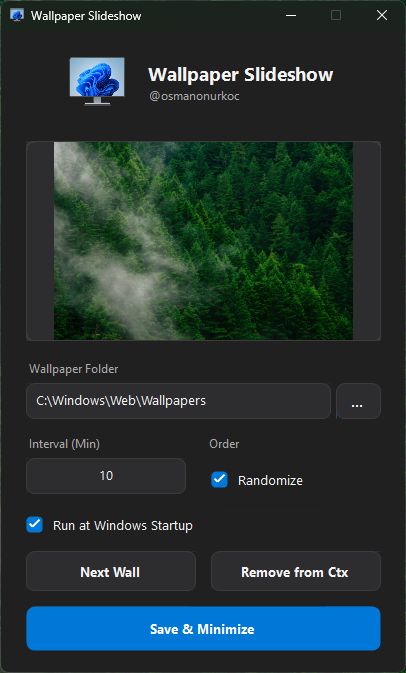
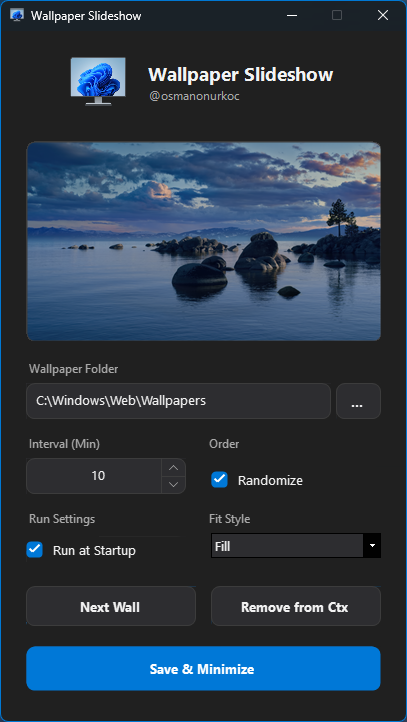
added fit options

diff --git a/Program.cs b/Program.cs
@@ -19,6 +19,7 @@ using System.Diagnostics;
 using System.Text.Json;
 using System.Reflection;
 using System.ComponentModel;
+using System.Linq;
 
 namespace WallpaperSlideshow;
 
@@ -32,6 +33,7 @@ public class Config
     public bool Randomize { get; set; } = true;
     public bool RunAtStartup { get; set; } = false;
     public int LastIndex { get; set; } = 0;
+    public string WallpaperStyle { get; set; } = "Fill";
 }
 
 /// <summary>
@@ -365,6 +367,23 @@ public class ModernCheckBox : CheckBox
     }
 }
 
+public class ModernComboBox : ComboBox
+{
+    public ModernComboBox()
+    {
+        FlatStyle = FlatStyle.Flat;
+        DropDownStyle = ComboBoxStyle.DropDownList;
+        Font = new Font("Segoe UI", 10);
+    }
+
+    public void UpdateTheme()
+    {
+        BackColor = Theme.SurfaceColor;
+        ForeColor = Theme.TextColor;
+        Invalidate();
+    }
+}
+
 // --- MAIN APPLICATION FORM ---
 
 public class MainForm : Form
@@ -383,11 +402,13 @@ public class MainForm : Form
     private ModernNumericUpDown? _txtInterval;
     private ModernCheckBox? _chkRandom;
     private ModernCheckBox? _chkStartup;
+    private ModernComboBox? _cmbStyle;
     private PictureBox? _previewBox;
     private Panel? _headerPanel;
     private ModernButton? _btnContext;
 
     private Image? _appImage;
+    private Image? _currentWallpaperImage;
     private bool _forceHidden = false;
 
     public MainForm(bool startHidden)
@@ -403,7 +424,7 @@ public class MainForm : Form
 
         // 2. Form Properties
         Text = "Wallpaper Slideshow";
-        Size = new Size(420, 680);
+        ClientSize = new Size(405, 690);
         FormBorderStyle = FormBorderStyle.FixedSingle;
         MaximizeBox = false;
         StartPosition = FormStartPosition.CenterScreen;
@@ -457,9 +478,12 @@ public class MainForm : Form
         {
             if (c is ModernTextBox mtb) mtb.UpdateTheme();
             else if (c is ModernNumericUpDown mnud) mnud.UpdateTheme();
+            else if (c is ModernComboBox mcb) mcb.UpdateTheme();
             else if (c is Label lbl) lbl.ForeColor = Theme.SubTextColor;
             else c.Invalidate();
         }
+
+        UpdatePreviewStyle();
     }
 
     private void UpdateDwmTitleBar()
@@ -553,9 +577,9 @@ public class MainForm : Form
         {
             Location = new Point(x, y),
             Size = new Size(width, 200),
-            SizeMode = PictureBoxSizeMode.Zoom,
-            BackColor = Theme.SurfaceColor
+            BackColor = Color.Black
         };
+        _previewBox.Region = new Region(Gfx.GetRoundedPath(_previewBox.ClientRectangle, Theme.Radius));
         _previewBox.Paint += PreviewBox_Paint;
         Controls.Add(_previewBox);
 
@@ -582,10 +606,20 @@ public class MainForm : Form
         Controls.Add(_chkRandom);
 
         y += 75;
-        _chkStartup = new ModernCheckBox { Text = "Run at Windows Startup", Location = new Point(x, y), Checked = _config.RunAtStartup };
+        CreateLabel("Run Settings", x, y);
+        CreateLabel("Fit Style", x + 180, y);
+
+        _chkStartup = new ModernCheckBox { Text = "Run at Startup", Location = new Point(x, y + 25), Size = new Size(160, 26), Checked = _config.RunAtStartup };
         Controls.Add(_chkStartup);
 
-        y += 40;
+        _cmbStyle = new ModernComboBox { Location = new Point(x + 185, y + 22), Size = new Size(170, 36) };
+        _cmbStyle.Items.AddRange(new object[] { "Fill", "Fit", "Stretch", "Center", "Tile", "Span" });
+        _cmbStyle.SelectedItem = string.IsNullOrEmpty(_config.WallpaperStyle) ? "Fill" : _config.WallpaperStyle;
+        _cmbStyle.UpdateTheme();
+        _cmbStyle.SelectedIndexChanged += (s, e) => UpdatePreviewStyle();
+        Controls.Add(_cmbStyle);
+
+        y += 75;
         var btnNext = new ModernButton { Text = "Next Wall", Location = new Point(x, y), Size = new Size(170, 40) };
         btnNext.Click += BtnNext_Click;
         Controls.Add(btnNext);
@@ -594,7 +628,7 @@ public class MainForm : Form
         _btnContext.Click += ToggleContextMenu;
         Controls.Add(_btnContext);
 
-        y += 55;
+        y += 60;
         var btnSave = new ModernButton { Text = "Save & Minimize", Location = new Point(x, y), Size = new Size(width, 45), IsPrimary = true };
         btnSave.Click += SaveAndHide;
         Controls.Add(btnSave);
@@ -605,6 +639,7 @@ public class MainForm : Form
         private void PreviewBox_Paint(object? sender, PaintEventArgs e)
         {
             using var p = new Pen(Theme.BorderColor, 2);
+            e.Graphics.SmoothingMode = SmoothingMode.AntiAlias;
             if (_previewBox != null)
                 e.Graphics.DrawPath(p, Gfx.GetRoundedPath(_previewBox.ClientRectangle, Theme.Radius));
         }
@@ -745,6 +780,30 @@ public class MainForm : Form
 
         private void SetWallpaper(string path)
         {
+            try
+            {
+                using var key = Registry.CurrentUser.OpenSubKey(@"Control Panel\Desktop", true);
+                if (key != null)
+                {
+                    string style = "10";
+                    string tile = "0";
+
+                    switch (_config.WallpaperStyle.ToLower())
+                    {
+                        case "fill": style = "10"; tile = "0"; break;
+                        case "fit": style = "6"; tile = "0"; break;
+                        case "stretch": style = "2"; tile = "0"; break;
+                        case "center": style = "0"; tile = "0"; break;
+                        case "tile": style = "0"; tile = "1"; break;
+                        case "span": style = "22"; tile = "0"; break;
+                    }
+
+                    key.SetValue("WallpaperStyle", style);
+                    key.SetValue("TileWallpaper", tile);
+                }
+            }
+            catch { }
+
             SystemParametersInfo(0x0014, 0, path, 0x01 | 0x02);
         }
 
@@ -761,12 +820,105 @@ public class MainForm : Form
 
                     if (files.Count > 0 && _config.LastIndex < files.Count && _config.LastIndex >= 0)
                     {
+                        var oldImage = _currentWallpaperImage;
+
                         using var temp = Image.FromFile(files[_config.LastIndex]);
-                        _previewBox.Image = new Bitmap(temp);
+                        _currentWallpaperImage = new Bitmap(temp);
+
+                        oldImage?.Dispose();
+
+                        UpdatePreviewStyle();
                     }
                 }
             }
             catch { }
+        }
+
+        private void UpdatePreviewStyle()
+        {
+            if (_previewBox == null || _cmbStyle == null || _currentWallpaperImage == null) return;
+
+            string style = _cmbStyle.SelectedItem?.ToString() ?? "Fill";
+
+            var oldBmp = _previewBox.Image;
+            _previewBox.Image = RenderPreview(_currentWallpaperImage, style, _previewBox.Size);
+            oldBmp?.Dispose();
+        }
+
+        // Conceptual preview drawing engine in the style of Windows 7.
+        private Bitmap RenderPreview(Image original, string style, Size canvasSize)
+        {
+            Bitmap bmp = new Bitmap(canvasSize.Width, canvasSize.Height);
+            using Graphics g = Graphics.FromImage(bmp);
+
+            g.Clear(Color.Black);
+            g.SmoothingMode = SmoothingMode.HighQuality;
+            g.InterpolationMode = InterpolationMode.HighQualityBicubic;
+            g.PixelOffsetMode = PixelOffsetMode.HighQuality;
+
+            if (original == null) return bmp;
+
+            Rectangle destRect;
+            Rectangle srcRect = new Rectangle(0, 0, original.Width, original.Height);
+
+            float ratio;
+            int w, h;
+
+            switch (style.ToLower())
+            {
+                case "stretch":
+                case "span":
+                    destRect = new Rectangle(0, 0, canvasSize.Width, canvasSize.Height);
+                    g.DrawImage(original, destRect, srcRect.X, srcRect.Y, srcRect.Width, srcRect.Height, GraphicsUnit.Pixel);
+                    break;
+
+                case "fit":
+                    ratio = Math.Min(canvasSize.Width / (float)original.Width, canvasSize.Height / (float)original.Height);
+                    w = (int)(original.Width * ratio);
+                    h = (int)(original.Height * ratio);
+                    destRect = new Rectangle((canvasSize.Width - w) / 2, (canvasSize.Height - h) / 2, w, h);
+                    g.DrawImage(original, destRect, srcRect.X, srcRect.Y, srcRect.Width, srcRect.Height, GraphicsUnit.Pixel);
+                    break;
+
+                case "fill":
+                    ratio = Math.Max(canvasSize.Width / (float)original.Width, canvasSize.Height / (float)original.Height);
+                    w = (int)(original.Width * ratio);
+                    h = (int)(original.Height * ratio);
+                    destRect = new Rectangle((canvasSize.Width - w) / 2, (canvasSize.Height - h) / 2, w, h);
+                    g.DrawImage(original, destRect, srcRect.X, srcRect.Y, srcRect.Width, srcRect.Height, GraphicsUnit.Pixel);
+                    break;
+
+                case "center":
+                    ratio = Math.Min(canvasSize.Width / (float)original.Width, canvasSize.Height / (float)original.Height) * 0.6f;
+                    w = (int)(original.Width * ratio);
+                    h = (int)(original.Height * ratio);
+                    destRect = new Rectangle((canvasSize.Width - w) / 2, (canvasSize.Height - h) / 2, w, h);
+                    g.DrawImage(original, destRect, srcRect.X, srcRect.Y, srcRect.Width, srcRect.Height, GraphicsUnit.Pixel);
+                    break;
+
+                case "tile":
+                    ratio = (canvasSize.Width * 0.25f) / original.Width;
+                    w = (int)(original.Width * ratio);
+                    h = (int)(original.Height * ratio);
+                    if (w <= 0) w = 1;
+                    if (h <= 0) h = 1;
+
+                    using (Bitmap tileBmp = new Bitmap(w, h))
+                    {
+                        using (Graphics tg = Graphics.FromImage(tileBmp))
+                        {
+                            tg.InterpolationMode = InterpolationMode.HighQualityBicubic;
+                            tg.DrawImage(original, new Rectangle(0, 0, w, h), srcRect.X, srcRect.Y, srcRect.Width, srcRect.Height, GraphicsUnit.Pixel);
+                        }
+                        using (TextureBrush tb = new TextureBrush(tileBmp))
+                        {
+                            g.FillRectangle(tb, new Rectangle(0, 0, canvasSize.Width, canvasSize.Height));
+                        }
+                    }
+                    break;
+            }
+
+            return bmp;
         }
 
         private void SaveConfig()
@@ -775,6 +927,7 @@ public class MainForm : Form
             if (_txtInterval != null) _config.IntervalMinutes = _txtInterval.Value;
             if (_chkRandom != null) _config.Randomize = _chkRandom.Checked;
             if (_chkStartup != null) _config.RunAtStartup = _chkStartup.Checked;
+            if (_cmbStyle != null) _config.WallpaperStyle = _cmbStyle.SelectedItem?.ToString() ?? "Fill";
 
             try
             {
